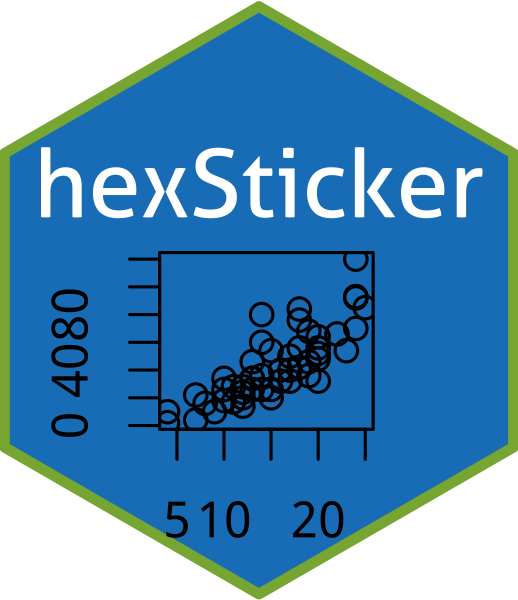
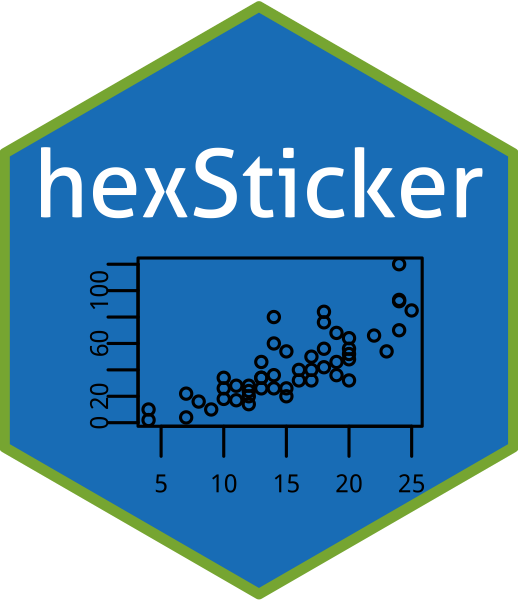
update readme

Changed region(s): [[0.0927, 0.42, 0.834, 0.9]]

diff --git a/README.md b/README.md
@@ -20,7 +20,8 @@ Examples
 
 ``` r
 library(hexSticker)
-sticker(expression(plot(cars)), package="hexSticker", p_size=8, s_x=1, s_y=.85, s_width=.5, s_height=.4, filename="inst/figures/baseplot.png")
+sticker(expression(plot(cars, cex=.5, cex.axis=.5, mgp=c(0,.3,0), xlab="", ylab="")), package="hexSticker",
+        p_size=8, s_x=1, s_y=.8, s_width=.8, s_height=.8, filename="inst/figures/baseplot.png")
 ```
 
 <img src="inst/figures/baseplot.png" height=300"/>
@@ -69,5 +70,10 @@ sticker(imgfile, package="hexSticker", p_size=8, s_x=1, s_y=.75, s_width=.6, s_h
 
 Stickers produced by `hexSticker`
 ---------------------------------
+
+> If you use `hexSticker` and want your sticker to be listed here, please feel free to edit [README.Rmd](https://github.com/GuangchuangYu/hexSticker/edit/master/README.Rmd).
+
+-   [ggtree](https://github.com/GuangchuangYu/ggtree)
+-   [treeio](https://github.com/GuangchuangYu/treeio)
 
 <img src="https://guangchuangyu.github.io/ggtree/ggtree.png" height="120"/> <img src="https://guangchuangyu.github.io/treeio/treeio.png" height="120"/>
